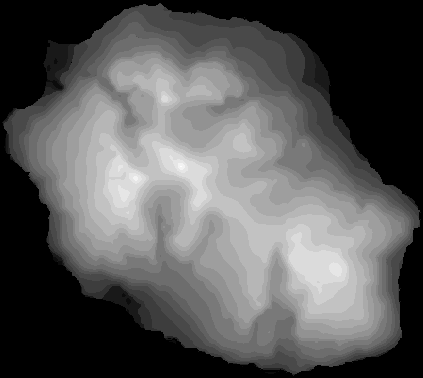
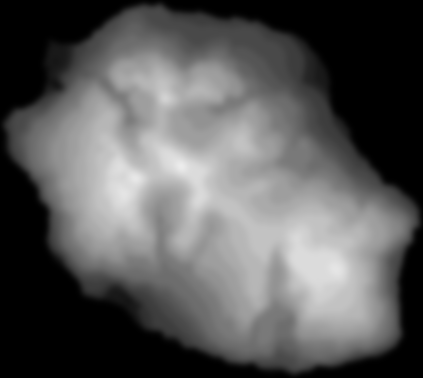
Start improving the texture API

diff --git a/kglt/texture.cpp b/kglt/texture.cpp
@@ -68,7 +68,7 @@ void Texture::sub_texture(TextureID src, uint16_t offset_x, uint16_t offset_y) {
     upload();
 }
 
-void Texture::__do_upload(bool free_after, bool generate_mipmaps, bool repeat, bool linear) {
+void Texture::__do_upload(MipmapGenerate mipmap, TextureWrap wrap, TextureFilter filter, bool free_after) {
     if(!gl_tex()) {
         GLCheck(glGenTextures, 1, &gl_tex_);
     }
@@ -83,28 +83,36 @@ void Texture::__do_upload(bool free_after, bool generate_mipmaps, bool repeat, b
         (bpp_ == 32) ? GL_RGBA : GL_RGB,
         GL_UNSIGNED_BYTE, &data_[0]
     );
-    if(generate_mipmaps) {
+    if(mipmap == MIPMAP_GENERATE_COMPLETE) {
 #ifdef KGLT_GL_VERSION_1X
-        if(generate_mipmaps) {
-            throw std::runtime_error("generate_mipmaps is not currently supported on the GL 1X renderer");
-        }
+        throw std::runtime_error("generate_mipmaps is not currently supported on the GL 1X renderer");
 #else
         GLCheck(glGenerateMipmap, GL_TEXTURE_2D);
 #endif
     }
-    if(repeat) {
-        GLCheck(glTexParameteri, GL_TEXTURE_2D, GL_TEXTURE_WRAP_S, GL_REPEAT);
-        GLCheck(glTexParameteri, GL_TEXTURE_2D, GL_TEXTURE_WRAP_T, GL_REPEAT);
-    } else {
-        GLCheck(glTexParameteri, GL_TEXTURE_2D, GL_TEXTURE_WRAP_S, GL_CLAMP_TO_EDGE);
-        GLCheck(glTexParameteri, GL_TEXTURE_2D, GL_TEXTURE_WRAP_T, GL_CLAMP_TO_EDGE);
+
+    switch(wrap) {
+        case TEXTURE_WRAP_REPEAT: {
+            GLCheck(glTexParameteri, GL_TEXTURE_2D, GL_TEXTURE_WRAP_S, GL_REPEAT);
+            GLCheck(glTexParameteri, GL_TEXTURE_2D, GL_TEXTURE_WRAP_T, GL_REPEAT);
+        } break;
+        case TEXTURE_WRAP_CLAMP_TO_EDGE: {
+            GLCheck(glTexParameteri, GL_TEXTURE_2D, GL_TEXTURE_WRAP_S, GL_CLAMP_TO_EDGE);
+            GLCheck(glTexParameteri, GL_TEXTURE_2D, GL_TEXTURE_WRAP_T, GL_CLAMP_TO_EDGE);
+        } break;
+    default:
+        assert(0 && "Not Implemented");
     }
 
-    if(!linear) {
-        GLCheck(glTexParameteri, GL_TEXTURE_2D, GL_TEXTURE_MIN_FILTER, GL_NEAREST);
+    if(filter == TEXTURE_FILTER_NEAREST) {
+        if(mipmap == MIPMAP_GENERATE_COMPLETE) {
+            GLCheck(glTexParameteri, GL_TEXTURE_2D, GL_TEXTURE_MIN_FILTER, GL_NEAREST_MIPMAP_NEAREST);
+        } else {
+            GLCheck(glTexParameteri, GL_TEXTURE_2D, GL_TEXTURE_MIN_FILTER, GL_NEAREST);
+        }
         GLCheck(glTexParameteri, GL_TEXTURE_2D, GL_TEXTURE_MAG_FILTER, GL_NEAREST);
     } else {
-        if(generate_mipmaps) {
+        if(mipmap == MIPMAP_GENERATE_COMPLETE) {
             GLCheck(glTexParameteri, GL_TEXTURE_2D, GL_TEXTURE_MIN_FILTER, GL_LINEAR_MIPMAP_LINEAR);
         } else {
             GLCheck(glTexParameteri, GL_TEXTURE_2D, GL_TEXTURE_MIN_FILTER, GL_LINEAR);
@@ -117,16 +125,16 @@ void Texture::__do_upload(bool free_after, bool generate_mipmaps, bool repeat, b
     }
 }
 
-void Texture::upload(bool free_after, bool generate_mipmaps, bool repeat, bool linear) {
+void Texture::upload(MipmapGenerate mipmap, TextureWrap wrap, TextureFilter filter, bool free_after) {
     if(GLThreadCheck::is_current()) {
-        __do_upload(free_after, generate_mipmaps, repeat, linear);
+        __do_upload(mipmap, wrap, filter, free_after);
     } else {
 
         //FIXME: This might get hairy if more than one thread is messing with the texture
         //as we do an unlocked access here (which is fine when it's only this thread and the
         //main thread, but if there's another one then, that could be bad news)
         resource_manager().window->idle->add_once([=] {
-            this->__do_upload(free_after, generate_mipmaps, repeat, linear);
+            this->__do_upload(mipmap, wrap, filter, free_after);
         });
 
         //Wait for the main thread to process the upload

diff --git a/kglt/resource_manager.h b/kglt/resource_manager.h
@@ -23,6 +23,23 @@ typedef generic::RefCountedTemplatedManager<Material, MaterialID> MaterialManage
 typedef generic::RefCountedTemplatedManager<Texture, TextureID> TextureManager;
 typedef generic::RefCountedTemplatedManager<Sound, SoundID> SoundManager;
 
+struct TextureFlags {
+    TextureFlags(
+        MipmapGenerate mipmap = MIPMAP_GENERATE_COMPLETE,
+        TextureWrap wrap = TEXTURE_WRAP_REPEAT,
+        TextureFilter filter = TEXTURE_FILTER_NEAREST):
+        mipmap(mipmap),
+        wrap(wrap),
+        filter(filter) {
+
+    }
+
+    MipmapGenerate mipmap = MIPMAP_GENERATE_COMPLETE;
+    TextureWrap wrap = TEXTURE_WRAP_REPEAT;
+    TextureFilter filter = TEXTURE_FILTER_NEAREST;
+    bool flip_vertically = false;
+};
+
 class ResourceManager : public virtual WindowHolder {
 public:
     ResourceManager(WindowBase* window):
@@ -70,9 +87,9 @@ public:
 
     //Texture functions
     virtual TextureID new_texture(GarbageCollectMethod garbage_collect=GARBAGE_COLLECT_PERIODIC) = 0;
-    virtual TextureID new_texture_from_file(const unicode& path, TextureFlags flags=0, GarbageCollectMethod garbage_collect=GARBAGE_COLLECT_PERIODIC) = 0;
+    virtual TextureID new_texture_from_file(const unicode& path, TextureFlags flags=TextureFlags(), GarbageCollectMethod garbage_collect=GARBAGE_COLLECT_PERIODIC) = 0;
     virtual TextureID new_texture_with_alias(const unicode& alias, GarbageCollectMethod garbage_collect=GARBAGE_COLLECT_PERIODIC) = 0;
-    virtual TextureID new_texture_with_alias_from_file(const unicode& alias, const unicode& path, TextureFlags flags=0, GarbageCollectMethod garbage_collect=GARBAGE_COLLECT_PERIODIC) = 0;
+    virtual TextureID new_texture_with_alias_from_file(const unicode& alias, const unicode& path, TextureFlags flags=TextureFlags(), GarbageCollectMethod garbage_collect=GARBAGE_COLLECT_PERIODIC) = 0;
     virtual TextureID get_texture_with_alias(const unicode& alias) = 0;
 
     virtual TexturePtr texture(TextureID t) = 0;
@@ -169,10 +186,10 @@ public:
 
 
     TextureID new_texture(GarbageCollectMethod garbage_collect=GARBAGE_COLLECT_PERIODIC) override;
-    TextureID new_texture_from_file(const unicode& path, TextureFlags flags=0, GarbageCollectMethod garbage_collect=GARBAGE_COLLECT_PERIODIC) override;
+    TextureID new_texture_from_file(const unicode& path, TextureFlags flags=TextureFlags(), GarbageCollectMethod garbage_collect=GARBAGE_COLLECT_PERIODIC) override;
 
     TextureID new_texture_with_alias(const unicode& alias, GarbageCollectMethod garbage_collect=GARBAGE_COLLECT_PERIODIC) override;
-    TextureID new_texture_with_alias_from_file(const unicode& alias, const unicode& path, TextureFlags flags=0, GarbageCollectMethod garbage_collect=GARBAGE_COLLECT_PERIODIC) override;
+    TextureID new_texture_with_alias_from_file(const unicode& alias, const unicode& path, TextureFlags flags=TextureFlags(), GarbageCollectMethod garbage_collect=GARBAGE_COLLECT_PERIODIC) override;
     TextureID get_texture_with_alias(const unicode& alias) override;
 
     TexturePtr texture(TextureID t) override;

diff --git a/kglt/stage.h b/kglt/stage.h
@@ -263,13 +263,13 @@ public:
 
     //Texture functions
     virtual TextureID new_texture(GarbageCollectMethod garbage_collect=GARBAGE_COLLECT_PERIODIC) override { return window->new_texture(garbage_collect); }
-    virtual TextureID new_texture_from_file(const unicode& path, TextureFlags flags=0, GarbageCollectMethod garbage_collect=GARBAGE_COLLECT_PERIODIC) override {
+    virtual TextureID new_texture_from_file(const unicode& path, TextureFlags flags=TextureFlags(), GarbageCollectMethod garbage_collect=GARBAGE_COLLECT_PERIODIC) override {
         return window->new_texture_from_file(path, flags, garbage_collect);
     }
     virtual TextureID new_texture_with_alias(const unicode& alias, GarbageCollectMethod garbage_collect=GARBAGE_COLLECT_PERIODIC) override {
         return window->new_texture_with_alias(alias, garbage_collect);
     }
-    virtual TextureID new_texture_with_alias_from_file(const unicode& alias, const unicode& path, TextureFlags flags=0, GarbageCollectMethod garbage_collect=GARBAGE_COLLECT_PERIODIC) override {
+    virtual TextureID new_texture_with_alias_from_file(const unicode& alias, const unicode& path, TextureFlags flags=TextureFlags(), GarbageCollectMethod garbage_collect=GARBAGE_COLLECT_PERIODIC) override {
         return window->new_texture_with_alias_from_file(alias, path, flags, garbage_collect);
     }
     virtual TextureID get_texture_with_alias(const unicode& alias) override {

diff --git a/kglt/texture.h b/kglt/texture.h
@@ -13,6 +13,23 @@
 
 namespace kglt {
 
+enum MipmapGenerate {
+    MIPMAP_GENERATE_NONE,
+    MIPMAP_GENERATE_COMPLETE
+};
+
+enum TextureWrap {
+    TEXTURE_WRAP_REPEAT,
+    TEXTURE_WRAP_CLAMP_TO_EDGE,
+    TEXTURE_WRAP_MIRRORED_REPEAT,
+    TEXTURE_WRAP_MIRRORED_CLAMP_TO_EDGE
+};
+
+enum TextureFilter {
+    TEXTURE_FILTER_LINEAR,
+    TEXTURE_FILTER_NEAREST
+};
+
 class Texture :
     public Resource,
     public Loadable,
@@ -43,12 +60,14 @@ public:
 
     void set_bpp(uint32_t bits=32);
     void resize(uint32_t width, uint32_t height);
-    void upload(bool free_after=true,
-                bool generate_mipmaps=true,
-                bool repeat=true,
-                bool linear=false); //Upload to GL, initializes the tex ID
+    void upload(
+        MipmapGenerate mipmap = MIPMAP_GENERATE_COMPLETE,
+        TextureWrap wrap = TEXTURE_WRAP_REPEAT,
+        TextureFilter filter = TEXTURE_FILTER_NEAREST,
+        bool free_after=true
+    ); //Upload to GL, initializes the tex ID
 
-    void __do_upload(bool free_after, bool generate_mipmaps, bool repeat, bool linear);
+    void __do_upload(MipmapGenerate mipmap, TextureWrap wrap, TextureFilter filter, bool free_after);
 
     void flip_vertically();
     void free(); //Frees the data used to construct the texture

diff --git a/samples/terrain_sample.cpp b/samples/terrain_sample.cpp
@@ -21,7 +21,7 @@ void calculate_splat_map(int width, int length, TexturePtr texture, VertexData& 
 
         float rock = clamp(steepness.value_ / 45.0f);
         float sand = clamp(1.0 - (height * 4.0f));
-        float grass = 0.5f;
+        float grass = (sand > 0.5) ? 0.0 : 0.5f;
         float snow = height * clamp(n.z);
 
         float z = rock + sand + grass + snow;
@@ -31,7 +31,7 @@ void calculate_splat_map(int width, int length, TexturePtr texture, VertexData& 
         texture->data()[(i * 4) + 2] = 255.0f * (rock / z);
         texture->data()[(i * 4) + 3] = 255.0f * (snow / z);
     }
-    texture->upload(false, false, false, true);
+    texture->upload(kglt::MIPMAP_GENERATE_NONE, kglt::TEXTURE_WRAP_CLAMP_TO_EDGE, kglt::TEXTURE_FILTER_LINEAR, false);
 }
 
 class GameScreen : public kglt::Screen<GameScreen> {
@@ -57,7 +57,7 @@ public:
 
         terrain_material_id_ = stage->new_material_from_file("sample_data/terrain_splat.kglm", GARBAGE_COLLECT_NEVER);
         kglt::HeightmapSpecification spec;
-        spec.smooth_iterations = 5;
+        spec.smooth_iterations = 0;
 
         terrain_mesh_id_ = stage->new_mesh_from_heightmap("sample_data/terrain.png", spec);
         auto terrain_mesh = stage->mesh(terrain_mesh_id_);

diff --git a/kglt/resource_manager.cpp b/kglt/resource_manager.cpp
@@ -368,15 +368,15 @@ TextureID ResourceManagerImpl::new_texture_from_file(const unicode& path, Textur
     auto tex = texture(new_texture(garbage_collect));
     window->loader_for(path, LOADER_HINT_TEXTURE)->into(tex);
 
-    if((flags & TEXTURE_OPTION_FLIP_VERTICALLY) == TEXTURE_OPTION_FLIP_VERTICALLY) {
+    if(flags.flip_vertically) {
         tex->flip_vertically();
     }
 
     tex->upload(
-        false,
-        (flags & TEXTURE_OPTION_DISABLE_MIPMAPS) != TEXTURE_OPTION_DISABLE_MIPMAPS,
-        (flags & TEXTURE_OPTION_CLAMP_TO_EDGE) != TEXTURE_OPTION_CLAMP_TO_EDGE,
-        (flags & TEXTURE_OPTION_NEAREST_FILTER) != TEXTURE_OPTION_NEAREST_FILTER
+        flags.mipmap,
+        flags.wrap,
+        flags.filter,
+        false
     );
 
     mark_texture_as_uncollected(tex->id());

diff --git a/kglt/ui/interface.cpp b/kglt/ui/interface.cpp
@@ -133,7 +133,7 @@ public:
         auto tex = manager().texture(manager().new_texture_from_file(source.CString()));
 
         tex->flip_vertically();
-        tex->upload(true, false, false, true);
+        tex->upload(MIPMAP_GENERATE_NONE, TEXTURE_WRAP_CLAMP_TO_EDGE, TEXTURE_FILTER_LINEAR, true);
 
         texture_handle = tex->id().value();
 
@@ -149,7 +149,12 @@ public:
         tex->set_bpp(32);
 
         tex->data().assign(source, source + data_size);
-        tex->upload(true, false, false, true);
+        tex->upload(
+            MIPMAP_GENERATE_NONE,
+            TEXTURE_WRAP_CLAMP_TO_EDGE,
+            TEXTURE_FILTER_LINEAR,
+            true
+        );
 
         texture_handle = tex->id().value();
 

diff --git a/kglt/loaders/q2bsp_loader.cpp b/kglt/loaders/q2bsp_loader.cpp
@@ -705,7 +705,7 @@ void Q2BSPLoader::into(Loadable& resource, const LoaderOptions &options) {
         lightmap->resize(lightmap_buffer.width_in_texels(), lightmap_buffer.height_in_texels());
         lightmap->set_bpp(24); // RGB only, no alpha
         lightmap->data().assign(lightmap_buffer.buffer.begin(), lightmap_buffer.buffer.end());
-        lightmap->upload(false, false, false, true);
+        lightmap->upload(MIPMAP_GENERATE_NONE, TEXTURE_WRAP_CLAMP_TO_EDGE, TEXTURE_FILTER_LINEAR, false);
     }
 
     mesh->stash(lightmap_texture, "lightmap_texture_id");

diff --git a/kglt/stage.cpp b/kglt/stage.cpp
@@ -232,7 +232,7 @@ SpriteID Stage::new_sprite_from_file(const unicode& filename, uint32_t frame_wid
     SpriteID s = new_sprite();
     TextureID t = new_texture_from_file(
         filename,
-        kglt::TEXTURE_OPTION_CLAMP_TO_EDGE | kglt::TEXTURE_OPTION_DISABLE_MIPMAPS | kglt::TEXTURE_OPTION_NEAREST_FILTER
+        TextureFlags(MIPMAP_GENERATE_NONE, TEXTURE_WRAP_CLAMP_TO_EDGE, TEXTURE_FILTER_NEAREST)
     );
     try {
         sprite(s)->set_spritesheet(t, frame_width, frame_height, margin, spacing, padding);

diff --git a/kglt/loaders/opt_loader.cpp b/kglt/loaders/opt_loader.cpp
@@ -486,7 +486,7 @@ void OPTLoader::into(Loadable& resource, const LoaderOptions &options) {
         new_tex->resize(tex.width, tex.height);
         new_tex->set_bpp(tex.bytes_per_pixel * 8);
         new_tex->data().assign(tex.data.begin(), tex.data.end());
-        new_tex->upload(true, true);
+        new_tex->upload(MIPMAP_GENERATE_COMPLETE);
 
         //Create a submesh for each texture. Don't share the vertex data between submeshes
         texture_submesh[tex.name] = mesh->new_submesh_with_material(

diff --git a/kglt/loaders/tiled_loader.cpp b/kglt/loaders/tiled_loader.cpp
@@ -68,7 +68,7 @@ void TiledLoader::into(Loadable &resource, const LoaderOptions &options) {
 
         TextureID tid = mesh->resource_manager().new_texture_from_file(
             final_path,
-            TEXTURE_OPTION_CLAMP_TO_EDGE | TEXTURE_OPTION_DISABLE_MIPMAPS | TEXTURE_OPTION_NEAREST_FILTER
+            TextureFlags(MIPMAP_GENERATE_NONE, TEXTURE_WRAP_CLAMP_TO_EDGE, TEXTURE_FILTER_NEAREST)
         );
 
         tileset_materials[i] = mesh->resource_manager().new_material_from_texture(tid);

diff --git a/kglt/extra/sprite_strip_loader.cpp b/kglt/extra/sprite_strip_loader.cpp
@@ -53,7 +53,7 @@ std::vector<TextureID> SpriteStripLoader::load_frames() {
         tex->set_bpp(tmp->bpp()); //Set the bpp
         tex->resize(frame_width_, tmp->height()); //Resize the texture
         tex->data().assign(data.begin(), data.end()); //Copy the frame data
-        tex->upload(true, true, false, false);
+        tex->upload(MIPMAP_GENERATE_COMPLETE, TEXTURE_WRAP_CLAMP_TO_EDGE, TEXTURE_FILTER_NEAREST, true);
 
         results.push_back(tex->id());
     }
